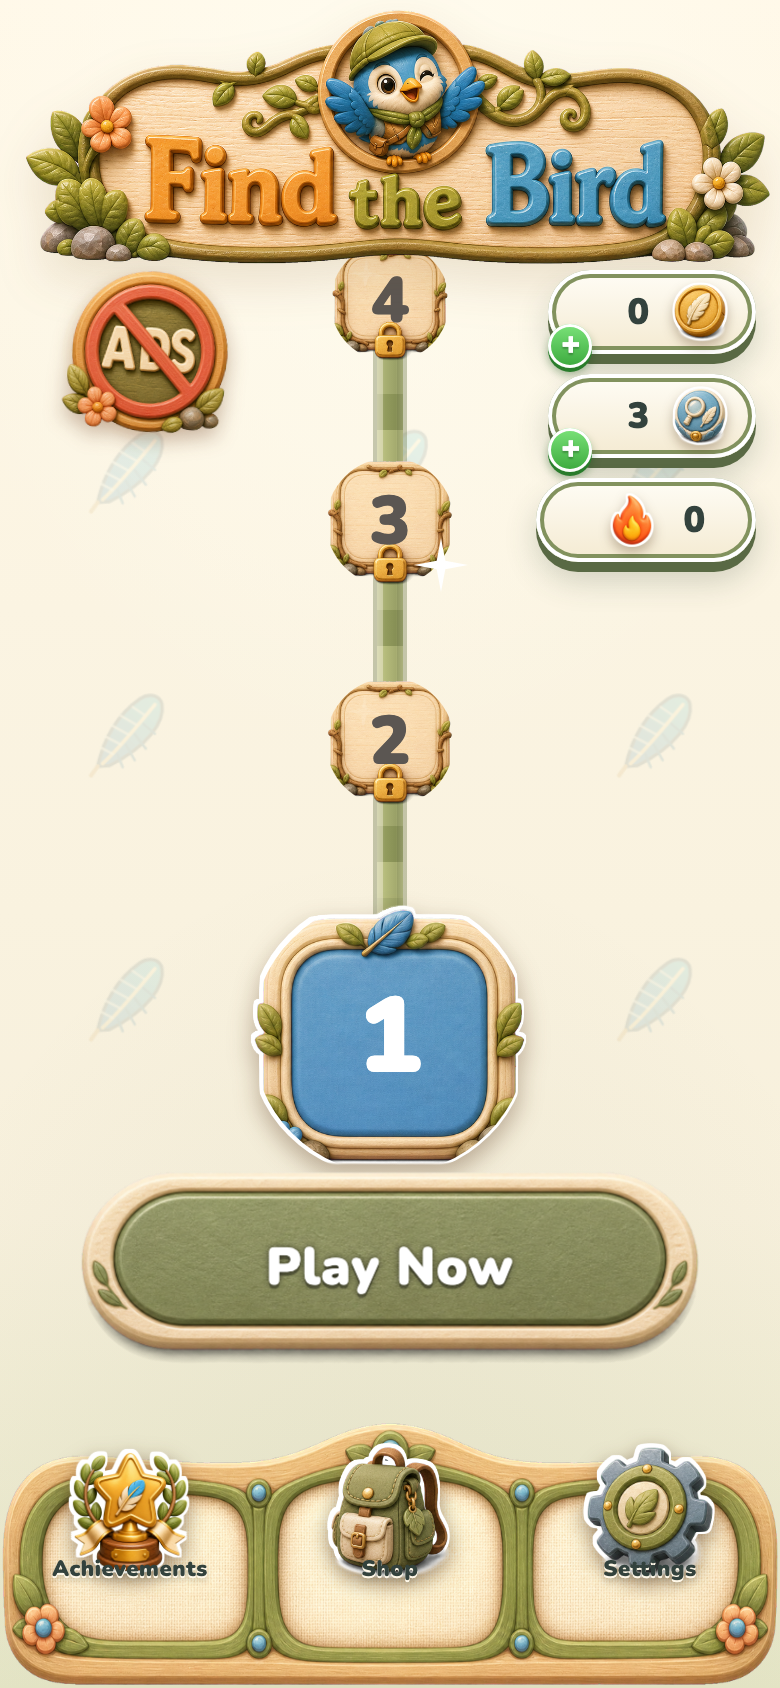
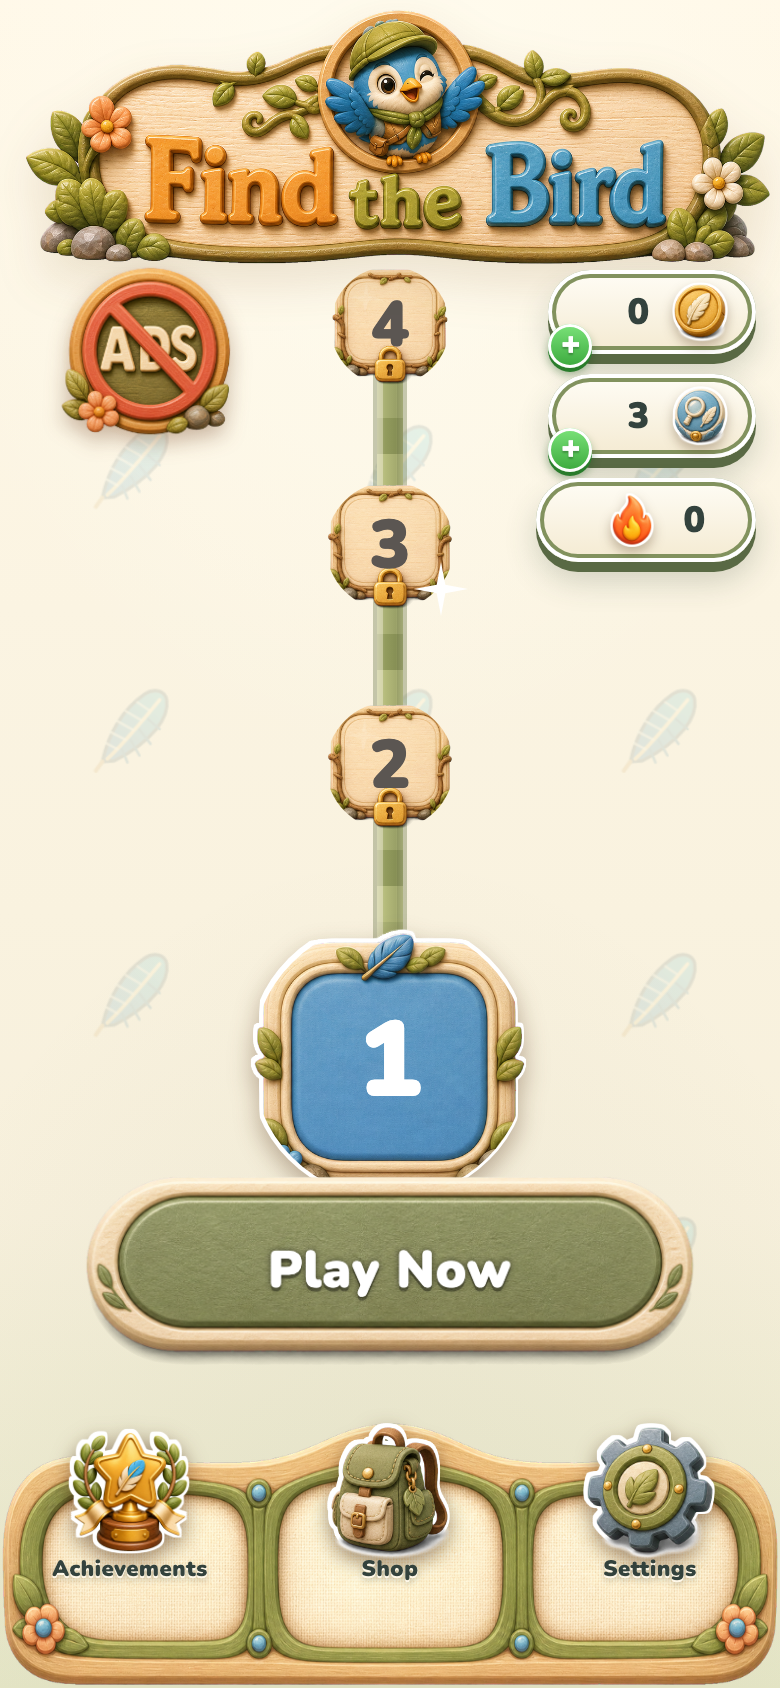
fix(find-the-bird): separate home nav labels

diff --git a/games/find_the_bird/tests/unit/home-menu-polish.test.ts b/games/find_the_bird/tests/unit/home-menu-polish.test.ts
@@ -126,7 +126,7 @@ describe("home menu polish regressions", () => {
 
     const sideNavIconRule = CSS_TEXT.match(/#home-shell \.home-nav-btn img\s*\{([^}]*)\}/s)?.[1] ?? "";
     expect(sideNavIconRule).toContain("margin-inline: auto");
-    expect(sideNavIconRule).toContain("transform: translateY(-18px)");
+    expect(sideNavIconRule).toContain("transform: translateY(-28px)");
     expect(CSS_TEXT).toMatch(/#home-shell #home-nav-achievements img\s*\{[^}]*width:\s*62px;[^}]*height:\s*62px;/s);
     expect(CSS_TEXT).not.toContain(".home-nav-play-btn");
     expect(CSS_TEXT).toContain("bottom: calc(env(safe-area-inset-bottom, 0px) * 0.55 + 50px);");

diff --git a/games/find_the_bird/src/ui/styles.css b/games/find_the_bird/src/ui/styles.css
@@ -3175,7 +3175,7 @@
   /* padding-bottom lifts the whole saga up so the current node sits just above
      the Play Now CTA. Raise --fab-levelmap-node-gap to push the UPPER tiles
      toward the banner. */
-  padding: 6px 0 40px;
+  padding: 6px 0 28px;
 }
 
 .home-play-dock {
@@ -3493,7 +3493,7 @@
   margin-inline: auto;
   object-fit: contain;
   object-position: center;
-  transform: translateY(-18px);
+  transform: translateY(-28px);
   filter:
     drop-shadow(1.5px 0 0 #fff) drop-shadow(-1.5px 0 0 #fff)
     drop-shadow(0 1.5px 0 #fff) drop-shadow(0 -1.5px 0 #fff)

diff --git a/docs/evidence/2026-08-04-ftb-home-navigation-layout/evidence.md b/docs/evidence/2026-08-04-ftb-home-navigation-layout/evidence.md
@@ -15,10 +15,12 @@ Browser captures and measured geometry confirm the larger, lower Play Now CTA an
 
 - Increased Play Now from 232x72 CSS pixels to 300x94 CSS pixels.
 - Lowered Play Now by 8 CSS pixels without reflowing the level path.
+- Lowered the saga path by 12 CSS pixels so the progression sits more naturally between the banner and CTA.
 - Replaced the redundant Play navigation item with an Achievements / Shop / Settings bar; Play Now is the sole play action.
 - Removed the old side-rail Achievements shortcut and routed the new bottom-bar entry to the same page.
 - Explicitly centered all three navigation icons and aligned all three labels within equal-width cells.
 - Compensated for transparent asset padding so the visible Achievements trophy and Settings gear have matching visual dimensions and centers.
+- Raised the three icon artworks by 10 CSS pixels to preserve a visible gap above their labels.
 - Added browser assertions that measure icon centers against the three expected bar centers and require every label to clear the bar bottom by at least 40 CSS pixels.
 
 ## Evidence Captured
